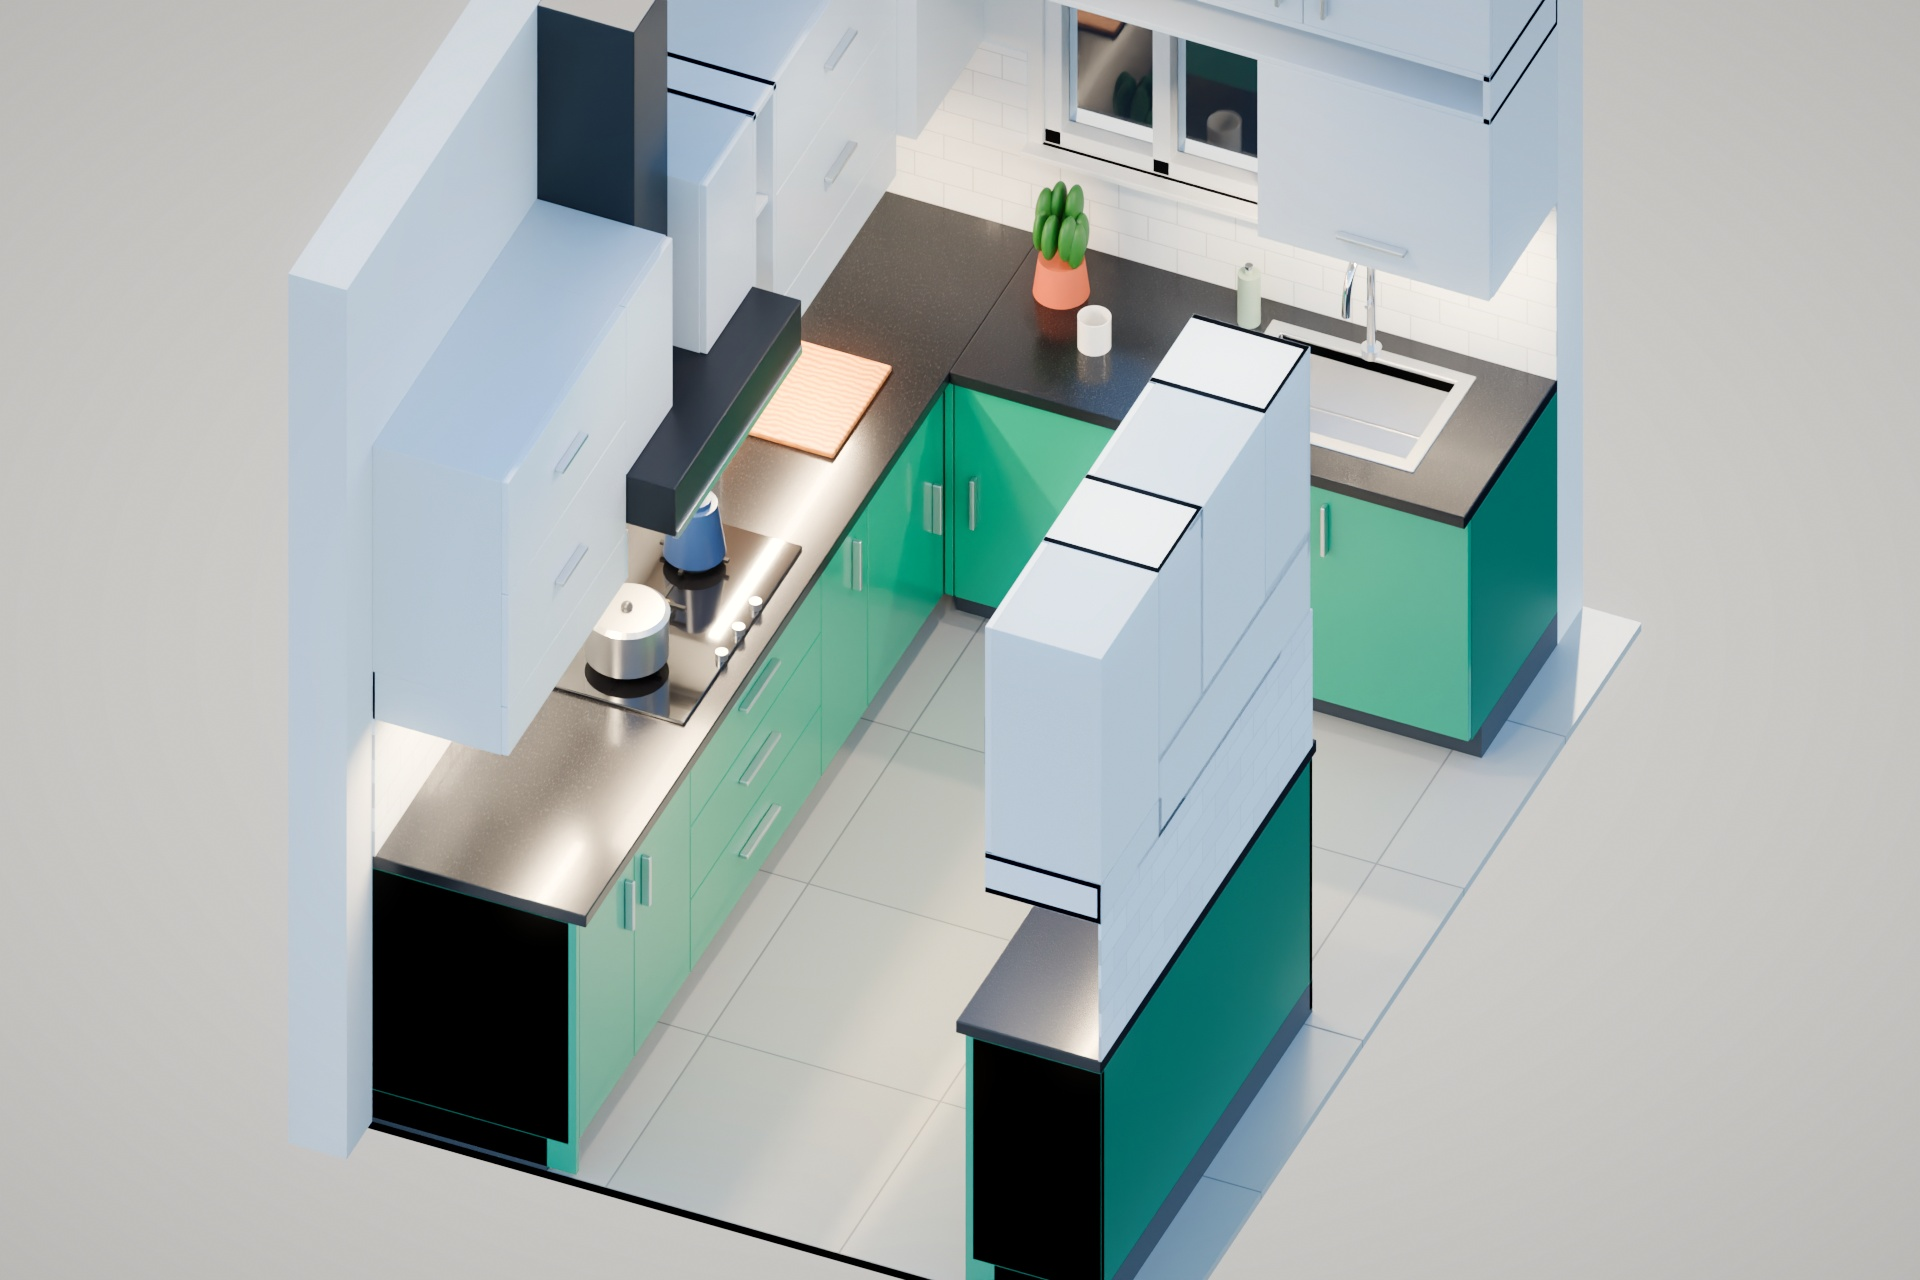
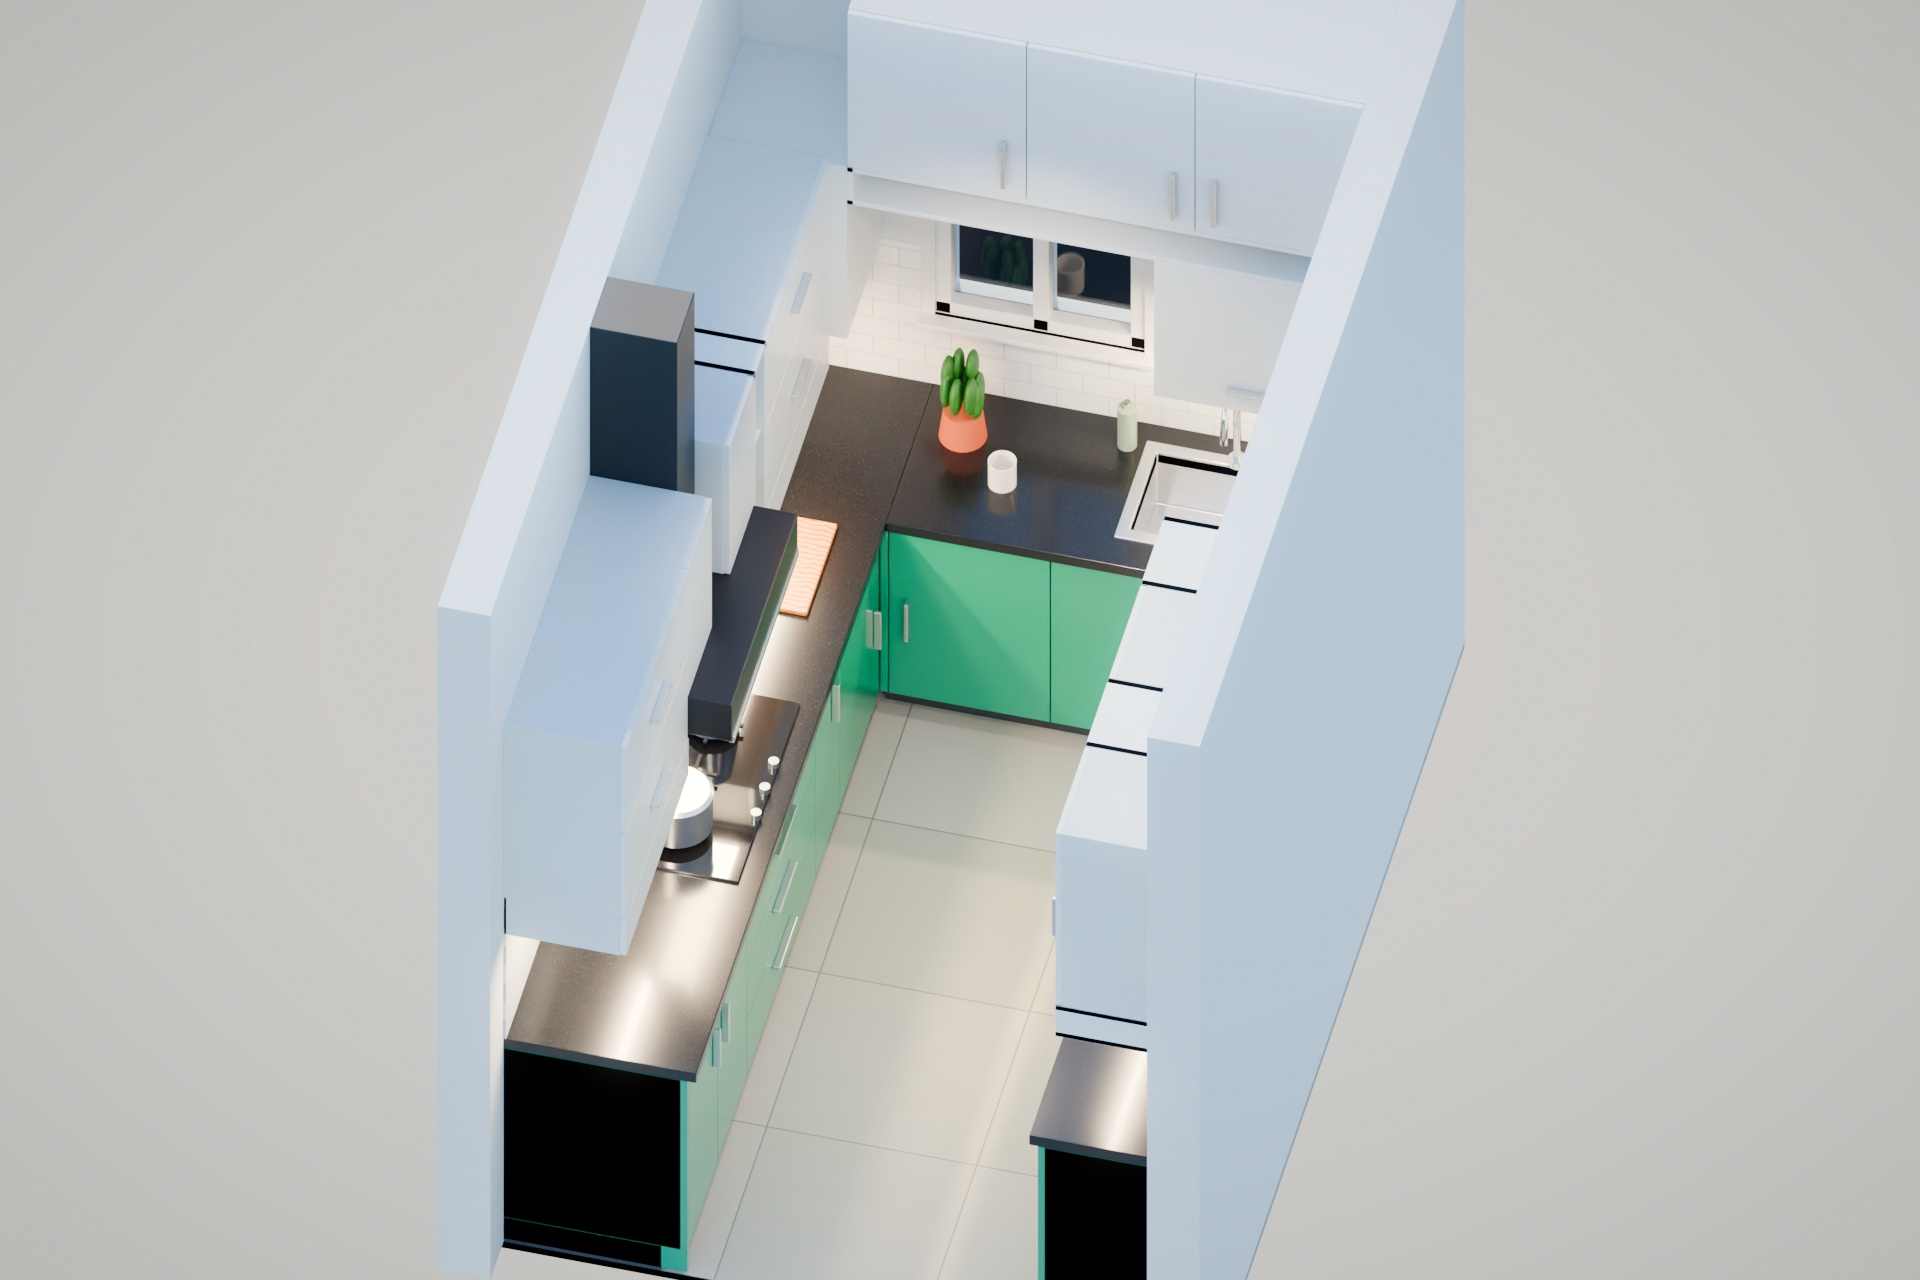
Restore south wall in kitchen cutaway render
Claude-Session: https://claude.ai/code/session_01MhUHRWJcc9KNTZ2C98Hx3B

diff --git a/kitchen-renders/kitchen.py b/kitchen-renders/kitchen.py
@@ -488,7 +488,7 @@ SHOTS = {
     "05_stove":  ((54, 50, 58), (40, 6, 44), 30, {"wallS", "S"}, 1.25, 0.0, None),
     "06_sink":   ((66, 32, 56), (106, 50, 45), 28, set(), 1.25, 0.0, None),
     "07_cups":   ((44, 30, 56), (28, 75, 56), 28, {"wallN", "N"}, 1.25, 0.0, None),
-    "08_axo":    ((-160, 130, 230), (54, 37, 30), 0, {"ceil", "beam", "floorext"}, 1.5, 0.0, 4.6),
+    "08_axo":    ((-170, 95, 300), (60, 37, 45), 0, {"ceil", "beam", "floorext"}, 1.5, 0.0, 5.4),
 }
 pos, tgt, lens, hide, aspect, shift, oscale = SHOTS[shot]
 cam_d = bpy.data.cameras.new("cam")
@@ -505,7 +505,7 @@ else:
     cam_d.lens = lens
 
 for o in bpy.data.objects:
-    if shot == "08_axo" and o.get("grp") in ("ceil", "beam", "wallS", "ext"):
+    if shot == "08_axo" and o.get("grp") in ("ceil", "beam", "ext"):
         o.hide_render = True
     if o.get("grp") in hide:
         o.visible_camera = False
